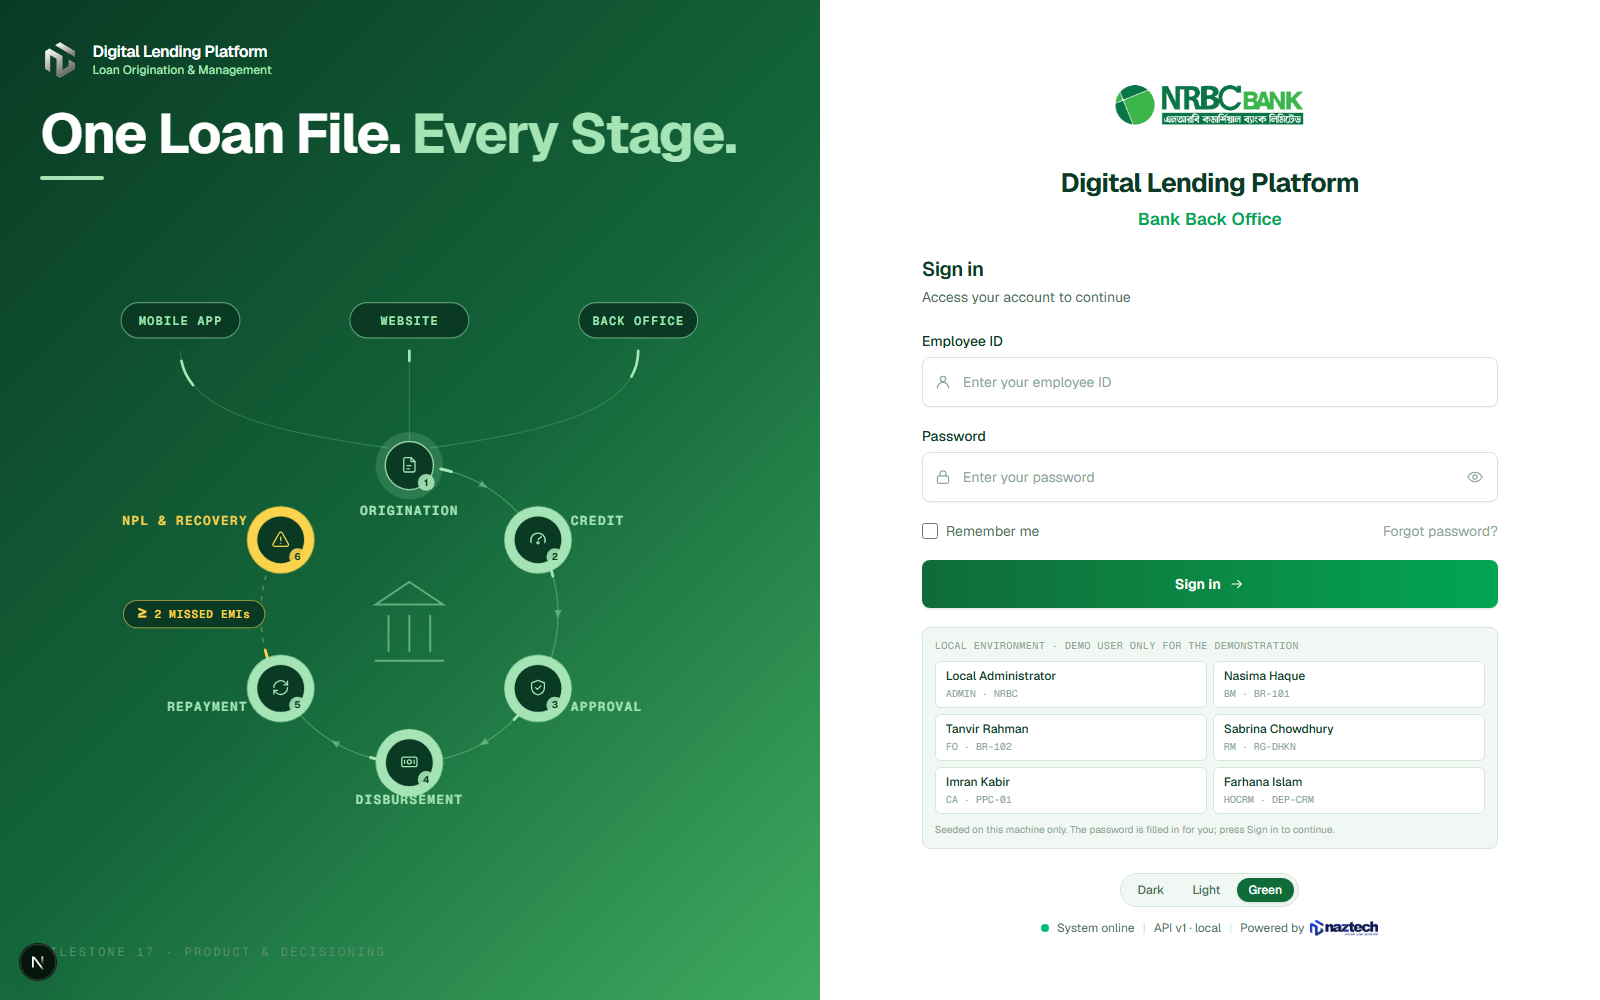
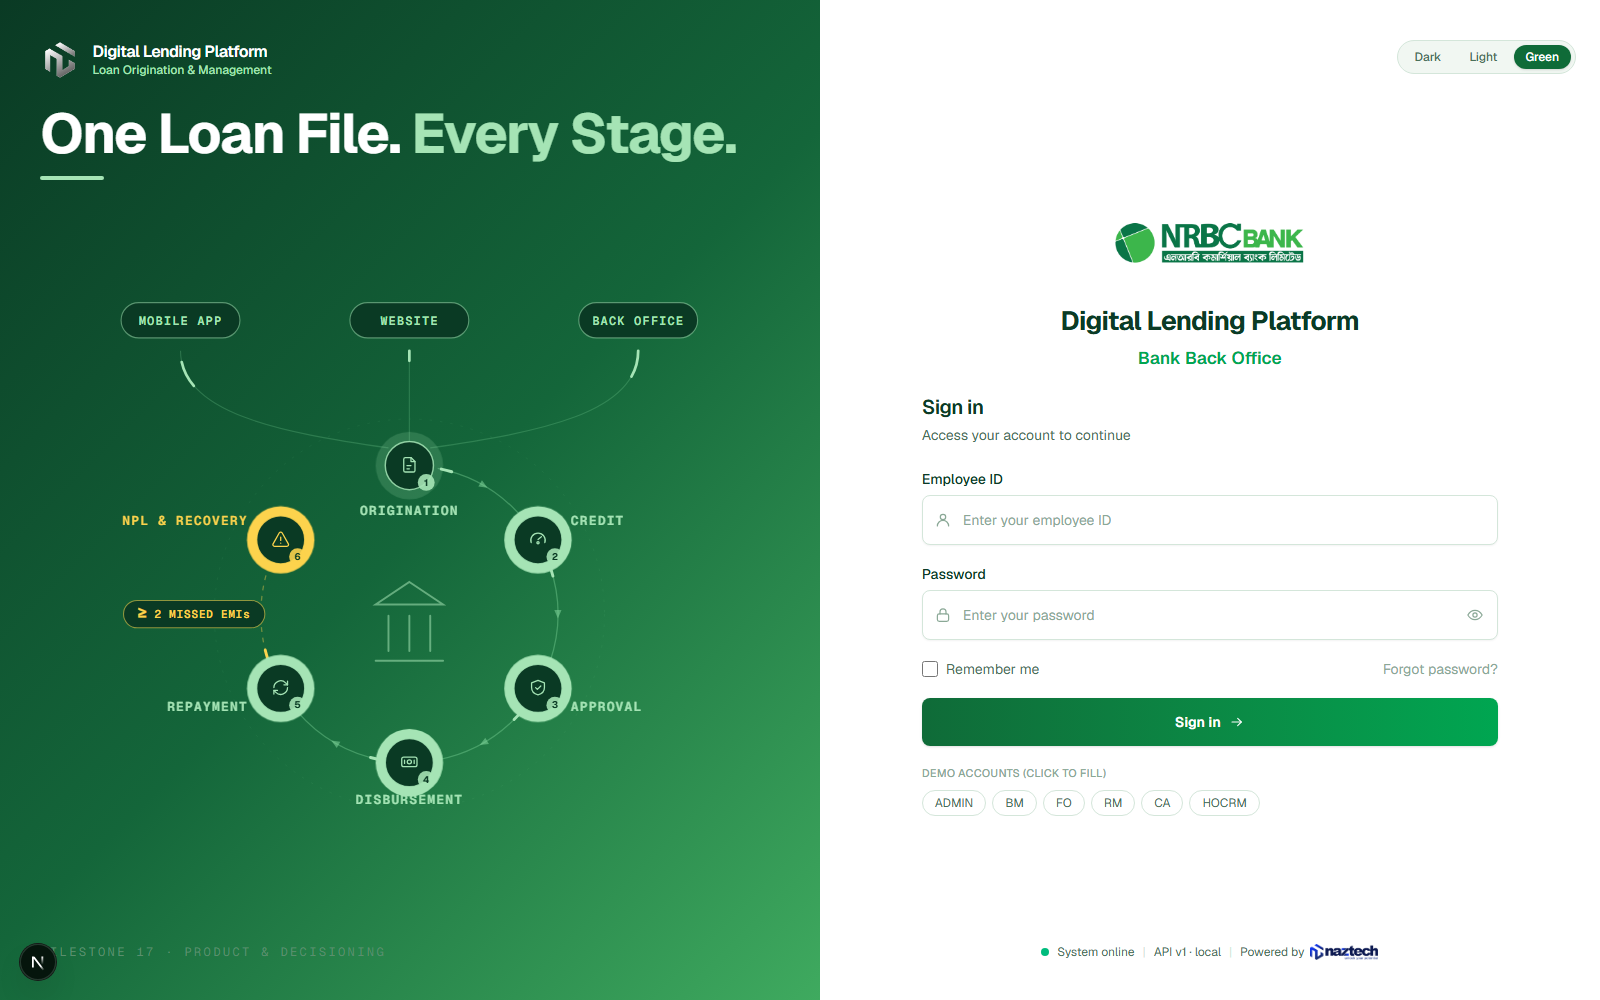
Simplify the demo account picker, and rebalance the sign-in column
The picker was a bordered panel holding six two-line cards, a heading and an
explanatory paragraph - 222px of a page whose whole design brief is to fit any
screen without scrolling. It is now a label and a row of pills, about 50px, and
says the same thing.

Pills are labelled by role, because the role is what a demonstrator is choosing
between. The person's name and what they can see moved to the tooltip, where
they answer "which one is this" without spending a line of the sign-in page.
The tooltip also stopped saying "Branch Manager" twice.

The column is now three bands rather than one centred block: the theme switcher
sits top right, the form takes the height that is left, and the status line rests
on the floor. flex-1 on the middle band is what keeps the form centred without
pushing the other two around.

Checked at 1600x1000 and 1366x768, in all three themes: nothing scrolls, and
click-to-fill through to a signed-in session still works.

diff --git a/web/bank-portal/src/app/login/page.tsx b/web/bank-portal/src/app/login/page.tsx
@@ -65,59 +65,66 @@ export default async function LoginPage() {
       </aside>
 
       {/* ---- Sign in --------------------------------------------------- */}
-      {/* overflow-y-auto is a safety valve, not the plan: the column fits at
+      {/* Three bands: the theme control at the top, the form taking whatever
+          height is left, and the status line on the floor. flex-1 on the middle
+          band is what centres the form without pushing the other two around.
+
+          overflow-y-auto is a safety valve, not the plan: the column fits at
           every size checked, but a 300px-tall window should still be usable. */}
-      <main className="flex min-h-0 items-center justify-center overflow-y-auto bg-canvas px-6 py-[var(--pad-panel)] tiny:px-4 tiny:py-3">
-        <div className="w-full max-w-[min(36rem,92%)]">
-          <div className="flex flex-col items-center text-center">
-            <BankLogo size="lg" />
-            <h1 className="mt-[var(--gap-stack)] text-[length:var(--fs-brand)] leading-[1.04] font-bold tracking-tight text-balance text-ink">
-              Digital Lending Platform
-            </h1>
-            <p className="mt-[var(--gap-tight)] text-[length:var(--fs-brand-sub)] leading-tight font-semibold text-brand theme-green:text-brand-strong">
-              Bank Back Office
-            </p>
-          </div>
+      <main className="flex min-h-0 flex-col overflow-y-auto bg-canvas px-6 py-[var(--pad-panel)] tiny:px-4 tiny:py-3">
+        <div className="flex justify-end">
+          <ThemeSwitcher />
+        </div>
 
-          <div className="mt-[var(--gap-stack)]">
-            <h2 className="text-xl font-semibold tracking-tight text-ink tiny:text-base">Sign in</h2>
-            <p className="mt-1 text-sm text-ink-muted short:hidden">
-              Access your account to continue
-            </p>
+        <div className="flex min-h-0 flex-1 items-center justify-center py-[var(--gap-stack)]">
+          <div className="w-full max-w-[min(36rem,92%)]">
+            <div className="flex flex-col items-center text-center">
+              <BankLogo size="lg" />
+              <h1 className="mt-[var(--gap-stack)] text-[length:var(--fs-brand)] leading-[1.04] font-bold tracking-tight text-balance text-ink">
+                Digital Lending Platform
+              </h1>
+              <p className="mt-[var(--gap-tight)] text-[length:var(--fs-brand-sub)] leading-tight font-semibold text-brand theme-green:text-brand-strong">
+                Bank Back Office
+              </p>
+            </div>
 
-            {/* The picker lives inside the form because it fills the form.
-                Lifting that state out to sit beside it would buy nothing and
-                cost a round trip through this server component. */}
-            <LoginForm demoAccounts={demoAccounts.ok ? demoAccounts.data : []} />
+            <div className="mt-[var(--gap-stack)]">
+              <h2 className="text-xl font-semibold tracking-tight text-ink tiny:text-base">
+                Sign in
+              </h2>
+              <p className="mt-1 text-sm text-ink-muted short:hidden">
+                Access your account to continue
+              </p>
 
-            <div className="mt-[var(--gap-stack)] flex flex-col items-center gap-[var(--gap-tight)]">
-              <ThemeSwitcher />
-              <div className="flex flex-wrap items-center justify-center gap-x-2 gap-y-1 text-xs text-ink-muted">
-                <span className="inline-flex items-center gap-2">
-                  <span
-                    aria-hidden
-                    className={cn(
-                      "size-2 rounded-full",
-                      !health.ok ? "bg-red-500" : online ? "bg-emerald-500" : "bg-amber-500",
-                    )}
-                  />
-                  {statusLabel}
-                </span>
-                <span className="text-line">|</span>
-                <span>
-                  {info.ok ? `API ${info.data.apiVersion} · ${info.data.environment}` : "API —"}
-                </span>
-                <span className="text-line tiny:hidden">|</span>
-                <span className="tiny:hidden">
-                  <span className="inline-flex items-center gap-1.5">
-                    {/* Fixed box: the silver and blue wordmarks are 4.09:1 and 4.25:1, so an
-                        auto width would jog the row by 2px on every theme switch. */}
-                    Powered by <NaztechLogo className="h-4 w-[68px]" />
-                  </span>
-                </span>
-              </div>
+              {/* The picker lives inside the form because it fills the form.
+                  Lifting that state out to sit beside it would buy nothing and
+                  cost a round trip through this server component. */}
+              <LoginForm demoAccounts={demoAccounts.ok ? demoAccounts.data : []} />
             </div>
           </div>
+        </div>
+
+        <div className="flex flex-wrap items-center justify-center gap-x-2 gap-y-1 text-xs text-ink-muted">
+          <span className="inline-flex items-center gap-2">
+            <span
+              aria-hidden
+              className={cn(
+                "size-2 rounded-full",
+                !health.ok ? "bg-red-500" : online ? "bg-emerald-500" : "bg-amber-500",
+              )}
+            />
+            {statusLabel}
+          </span>
+          <span className="text-line">|</span>
+          <span>{info.ok ? `API ${info.data.apiVersion} · ${info.data.environment}` : "API —"}</span>
+          <span className="text-line tiny:hidden">|</span>
+          <span className="tiny:hidden">
+            <span className="inline-flex items-center gap-1.5">
+              {/* Fixed box: the silver and blue wordmarks are 4.09:1 and 4.25:1, so an
+                  auto width would jog the row by 2px on every theme switch. */}
+              Powered by <NaztechLogo className="h-4 w-[68px]" />
+            </span>
+          </span>
         </div>
       </main>
     </div>

diff --git a/web/bank-portal/src/components/login-form.tsx b/web/bank-portal/src/components/login-form.tsx
@@ -319,16 +319,20 @@ export function LoginForm({ demoAccounts = [] }: { demoAccounts?: DemoAccount[] 
 }
 
 /**
- * The seeded accounts, one card each.
+ * The seeded accounts, one pill each.
  *
  * <p>Present only when the API offered any, which it does only under the local
  * profile. That is a better gate than reading the environment name here: it is
  * the backend that decides whether these accounts exist, so it should be the
  * backend that decides whether they are shown.
  *
- * <p>The roster is chosen to make the platform's rules visible - branch against
- * region against head office - so the roles are labelled rather than left as
- * codes. Clicking fills the form; it does not sign in.
+ * <p>Labelled by role, because that is what a demonstrator is choosing between -
+ * the person's name and their posting are on the tooltip, where they answer
+ * "which branch is this one" without taking a line of the sign-in page to do it.
+ *
+ * <p>Clicking fills the form. It does not sign in: a control that signs you in
+ * the instant you brush it signs you in as the wrong person while you are still
+ * reading the row.
  */
 function DemoAccountPicker({
   accounts,
@@ -340,15 +344,12 @@ function DemoAccountPicker({
   onPick: (account: DemoAccount) => void;
 }) {
   return (
-    // Narrower rather than absent on a short viewport. A 1366x768 laptop is a
-    // demonstration machine, and this is how somebody signs in on it - hiding
-    // the picker there would remove the feature exactly where it is used.
-    <div className="rounded-lg border border-line bg-panel px-3 py-2.5 short:py-2 tiny:hidden">
-      <p className="font-mono text-[10px] tracking-wider text-ink-subtle uppercase">
-        Local environment &middot; Demo User Only For the Demonstration
+    <div className="tiny:hidden">
+      <p className="text-[11px] font-medium tracking-wide text-ink-subtle uppercase">
+        Demo accounts (click to fill)
       </p>
 
-      <ul className="mt-2 grid grid-cols-2 gap-1.5 short:mt-1.5 short:grid-cols-3">
+      <ul className="mt-2 flex flex-wrap gap-1.5">
         {accounts.map((account) => {
           const isSelected = selected === account.username;
           return (
@@ -356,32 +357,22 @@ function DemoAccountPicker({
               <button
                 type="button"
                 onClick={() => onPick(account)}
-                title={account.note}
+                title={`${account.displayName} — ${account.note}`}
                 aria-pressed={isSelected}
                 className={cn(
-                  "w-full rounded-md border px-2.5 py-1.5 text-left transition",
+                  "rounded-full border px-3 py-1 text-xs transition",
                   "focus-visible:ring-2 focus-visible:ring-brand/40 focus-visible:outline-none",
                   isSelected
-                    ? "border-brand bg-brand/10"
-                    : "border-line bg-canvas hover:border-brand/60",
+                    ? "border-brand bg-brand/10 font-medium text-ink"
+                    : "border-line bg-canvas text-ink-muted hover:border-brand/60 hover:text-ink",
                 )}
               >
-                <span className="block truncate text-xs font-medium text-ink short:text-[11px]">
-                  {account.displayName}
-                </span>
-                <span className="mt-0.5 block truncate font-mono text-[10px] text-ink-subtle">
-                  {account.roleCode} &middot; {account.orgUnitCode}
-                </span>
+                {account.roleCode}
               </button>
             </li>
           );
         })}
       </ul>
-
-      <p className="mt-2 text-[10px] leading-relaxed text-ink-subtle short:hidden">
-        Seeded on this machine only. The password is filled in for you; press
-        Sign in to continue.
-      </p>
     </div>
   );
 }
